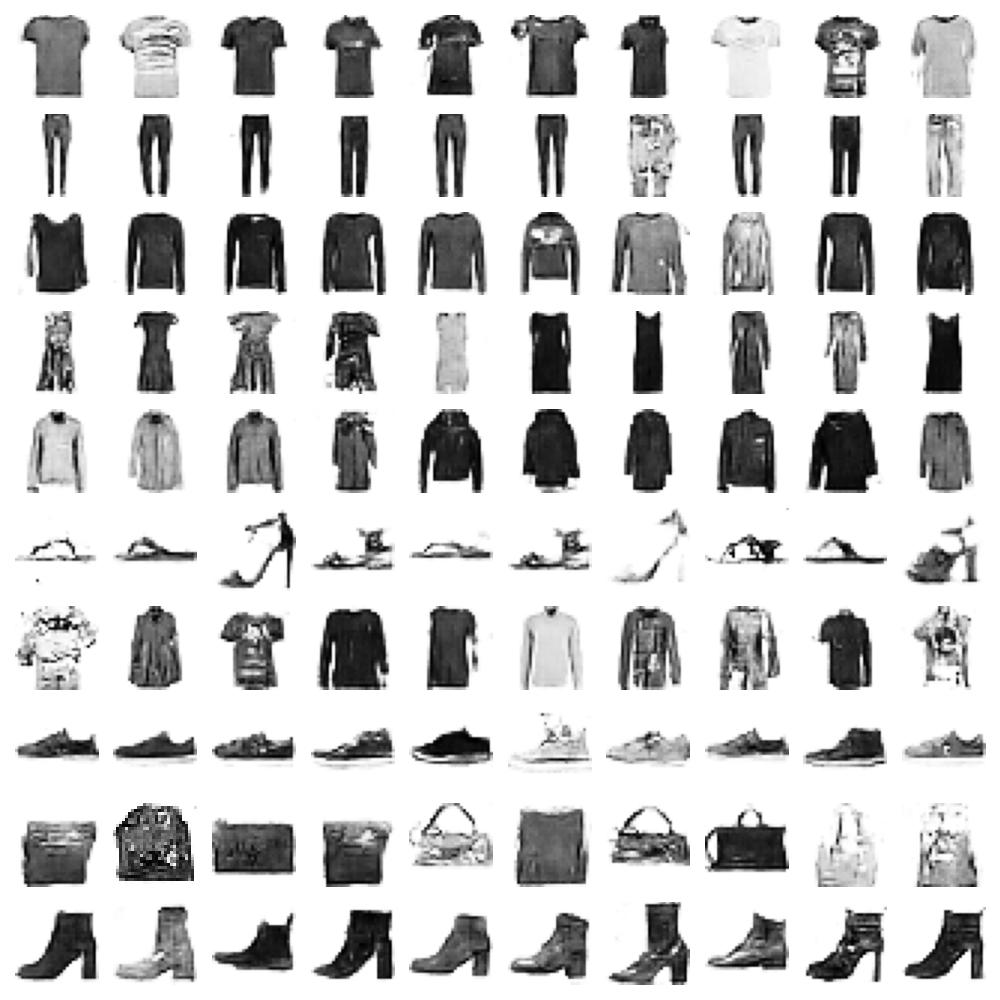
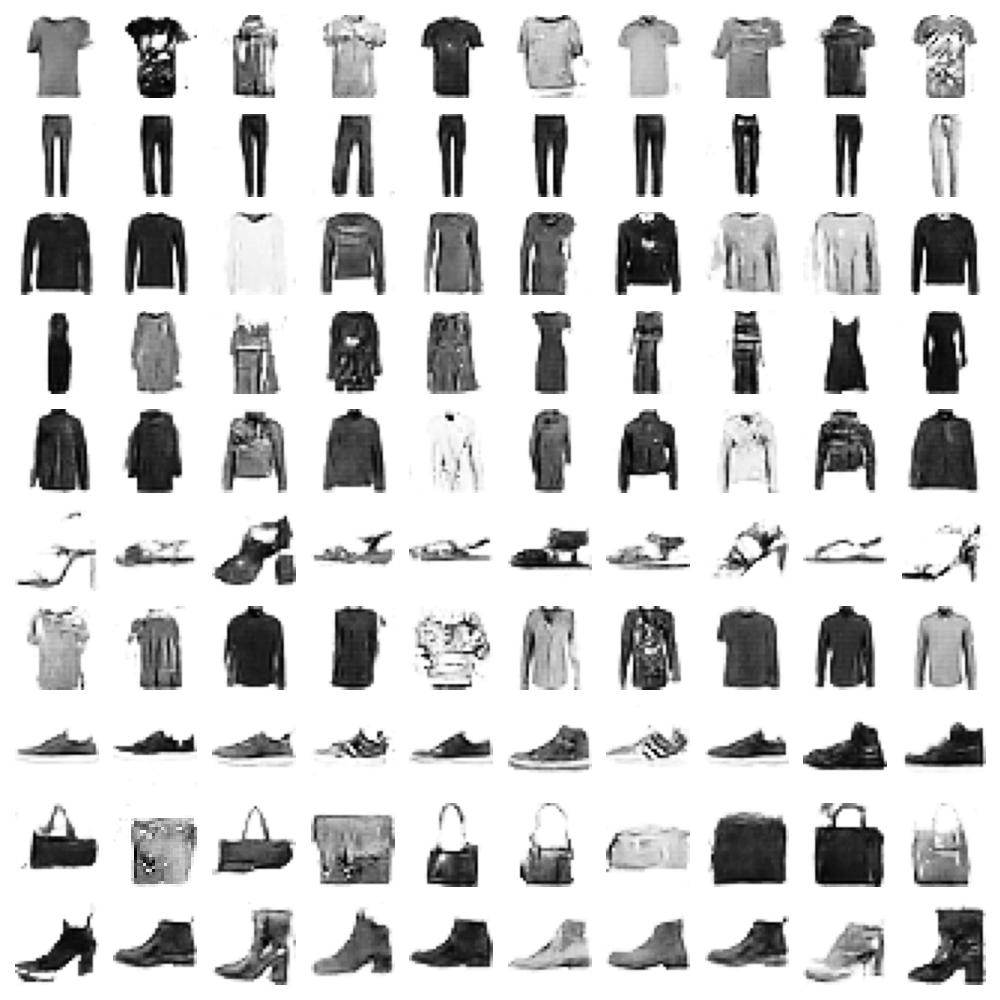
Update code

diff --git a/cfg/cfg.py b/cfg/cfg.py
@@ -3,7 +3,6 @@ import torch
 
 class Config:
     def __init__(self, phase = "train"):
-        super(Config, self).__init__()
         self.data_path = [
             "./data/train/",
             "./data/test/",
@@ -23,7 +22,7 @@ class Config:
 
         ### Train config ###
         self.EPOCH = 1000
-        self.train_batch_size = 512
+        self.train_batch_size = 128
         self.train_num_worker = 8
         self.learning_rate_G = 0.0002
         self.learning_rate_D = 0.0002
@@ -68,3 +67,9 @@ class Config:
 
         return exp_number
     
+class ConfigInference(Config):
+    def __init__(self, phase = "valid"):
+        super().__init__(phase)
+        self.best_checkpoint = './training_runs/exp63/model_G_best.pth'
+        self.num_col = 10
+        self.num_row = 10

diff --git a/tools/infer.py b/tools/infer.py
@@ -10,14 +10,12 @@ if str(ROOT) not in sys.path:
     sys.path.append(str(ROOT))  # add ROOT to PATH
 ROOT = Path(os.path.relpath(ROOT, Path.cwd()))  # relative
 
-from cfg.cfg import Config
+from cfg.cfg import ConfigInference
 from src.model import Generator
 from src.plot import draw_plot
 
 
-
-
-def infer(config: Config):
+def infer(config: ConfigInference):
     device = config.device
 
     net_G = Generator(num_classes=config.total_classes, in_channels=config.input_dims).to(device)
@@ -33,5 +31,5 @@ def infer(config: Config):
     draw_plot(outputs, config)
 
 if __name__ == "__main__":
-    config = Config(phase = 'valid')
+    config = ConfigInference(phase = 'valid')
     infer(config)

diff --git a/README.md b/README.md
@@ -38,13 +38,17 @@ data
 
 ## Checkpoint
 
-You can download pretrained weight for [Net_G](), train with default config. But I recommend you to retrain from scratch with your own experiments
+You can download pretrained weight for [Net_G](https://drive.google.com/file/d/148jG1AiENfAr6tc3CCtjXTGfhmOfWXXp/view?usp=share_link), train with default config. But I recommend you to retrain from scratch with your own experiments
 
-Here is pretrained for [Net_D]()
+Here is pretrained for [Net_D](https://drive.google.com/file/d/1kkS-ZoaGy9feiGQPXD2W7qrochDIpGHX/view?usp=share_link)
 
 ## Train
 
-Firstly, compute statistics for train dataset (mean and variance)
+Firstly, compute statistics for train dataset (mean and variance) with 
+
+```bash 
+python tools/calculate_statistics.py
+```
 
 You can modify config in `cfg/cfg.py` and run
 
@@ -62,6 +66,8 @@ python tools/infer.py
 
 ## Result
 
+After run, FID minimum score is **56.36** at epoch 409
+
 - Example output class 0
 
 ![asset0](./assets/sample_0.jpg "asset0")
@@ -73,6 +79,38 @@ python tools/infer.py
 ## Citation
 
 ``` bibtex
+@article{mirza2014conditional,
+  added-at = {2022-01-13T16:13:14.000+0100},
+  author = {Mirza, Mehdi and Osindero, Simon},
+  biburl = {https://www.bibsonomy.org/bibtex/2cfa802085dbe67e0697a9acfffa30a3f/mo0000},
+  description = {Erklärt cGAN Teil von Seminararbeitsthema cWGAN.},
+  interhash = {efbbaeaebb1ea8d88264d258624d364c},
+  intrahash = {cfa802085dbe67e0697a9acfffa30a3f},
+  journal = {arXiv preprint arXiv:1411.1784},
+  keywords = {cGAN final gan thema:conditional_wasserstein_gan-based_oversampling_of_tabular_data_for_imbalanced_learning},
+  timestamp = {2022-01-13T16:13:14.000+0100},
+  title = {Conditional generative adversarial nets},
+  year = 2014
+}
+
+@misc{xiao2017fashionmnist,
+  abstract = {We present Fashion-MNIST, a new dataset comprising of 28x28 grayscale images of 70,000 fashion products from 10 categories, with 7,000 images per category. The training set has 60,000 images and the test set has 10,000 images. Fashion-MNIST is intended to serve as a direct drop-in replacement for the original MNIST dataset for benchmarking machine learning algorithms, as it shares the same image size, data format and the structure of training and testing splits. The dataset is freely available at https://github.com/zalandoresearch/fashion-mnist},
+  added-at = {2021-10-12T06:50:19.000+0200},
+  author = {Xiao, Han and Rasul, Kashif and Vollgraf, Roland},
+  biburl = {https://www.bibsonomy.org/bibtex/2de51af2f6c7d8b0f4cd84a428bb17967/andolab},
+  description = {Fashion-MNIST: a Novel Image Dataset for Benchmarking Machine Learning Algorithms},
+  interhash = {0c81f9a6170118f14703b6796101ce40},
+  intrahash = {de51af2f6c7d8b0f4cd84a428bb17967},
+  keywords = {Fashion-MNIST Image_Classification_Benchmark},
+  note = {cite arxiv:1708.07747Comment: Dataset is freely available at  https://github.com/zalandoresearch/fashion-mnist Benchmark is available at  http://fashion-mnist.s3-website.eu-central-1.amazonaws.com/},
+  timestamp = {2023-01-31T20:34:07.000+0100},
+  title = {Fashion-MNIST: a Novel Image Dataset for Benchmarking Machine Learning Algorithms},
+  url = {http://arxiv.org/abs/1708.07747},
+  year = 2017
+}
+
+
+
 @misc{Seitzer2020FID,
   author={Maximilian Seitzer},
   title={{pytorch-fid: FID Score for PyTorch}},
